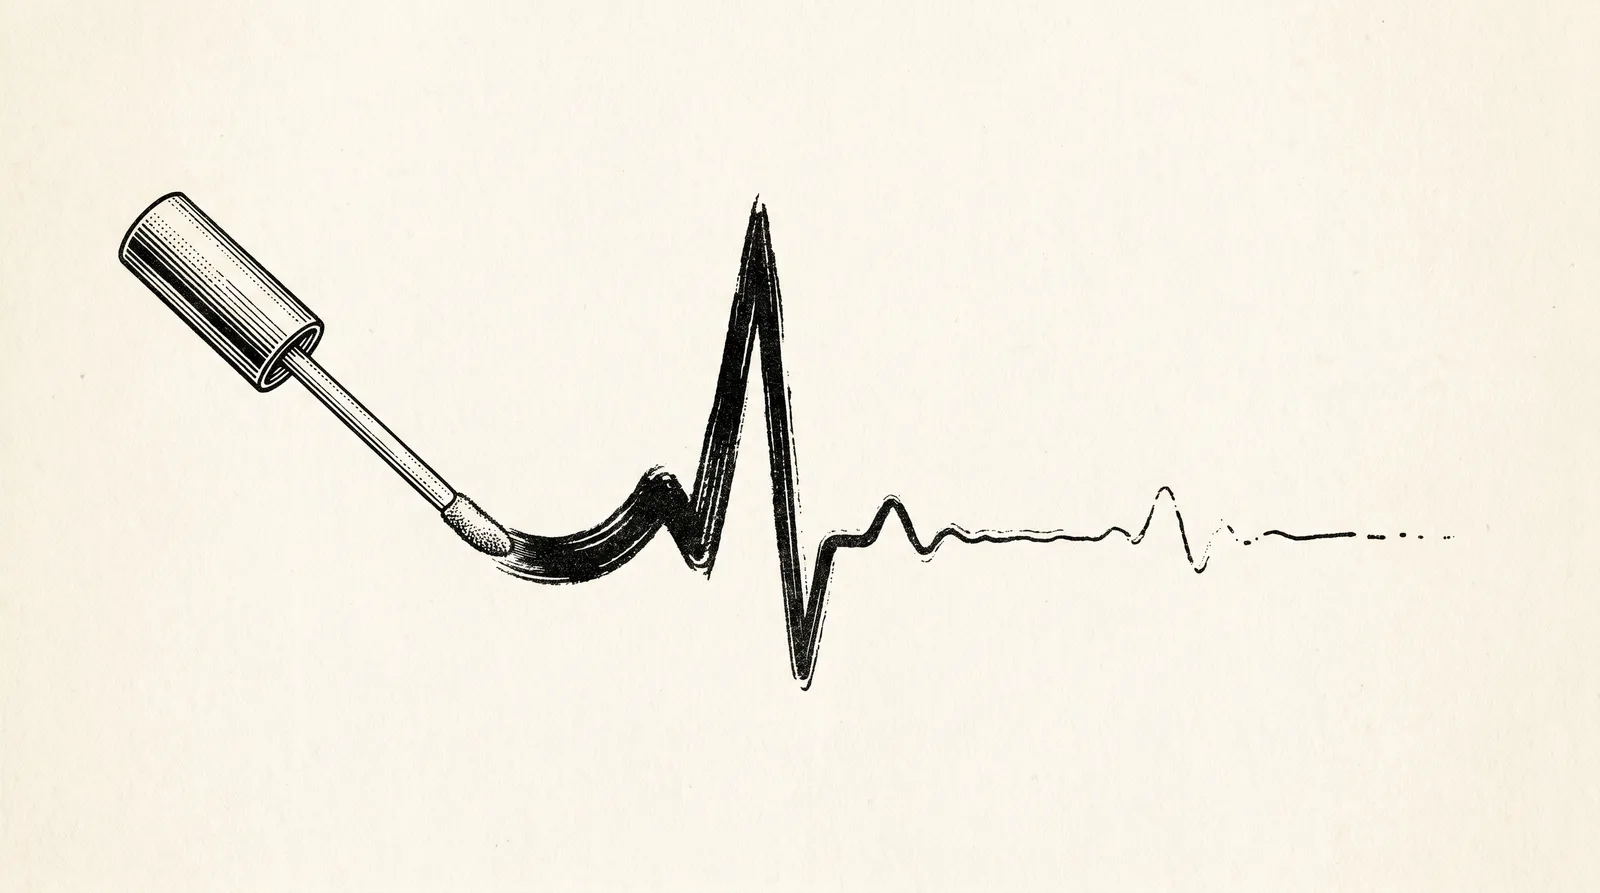
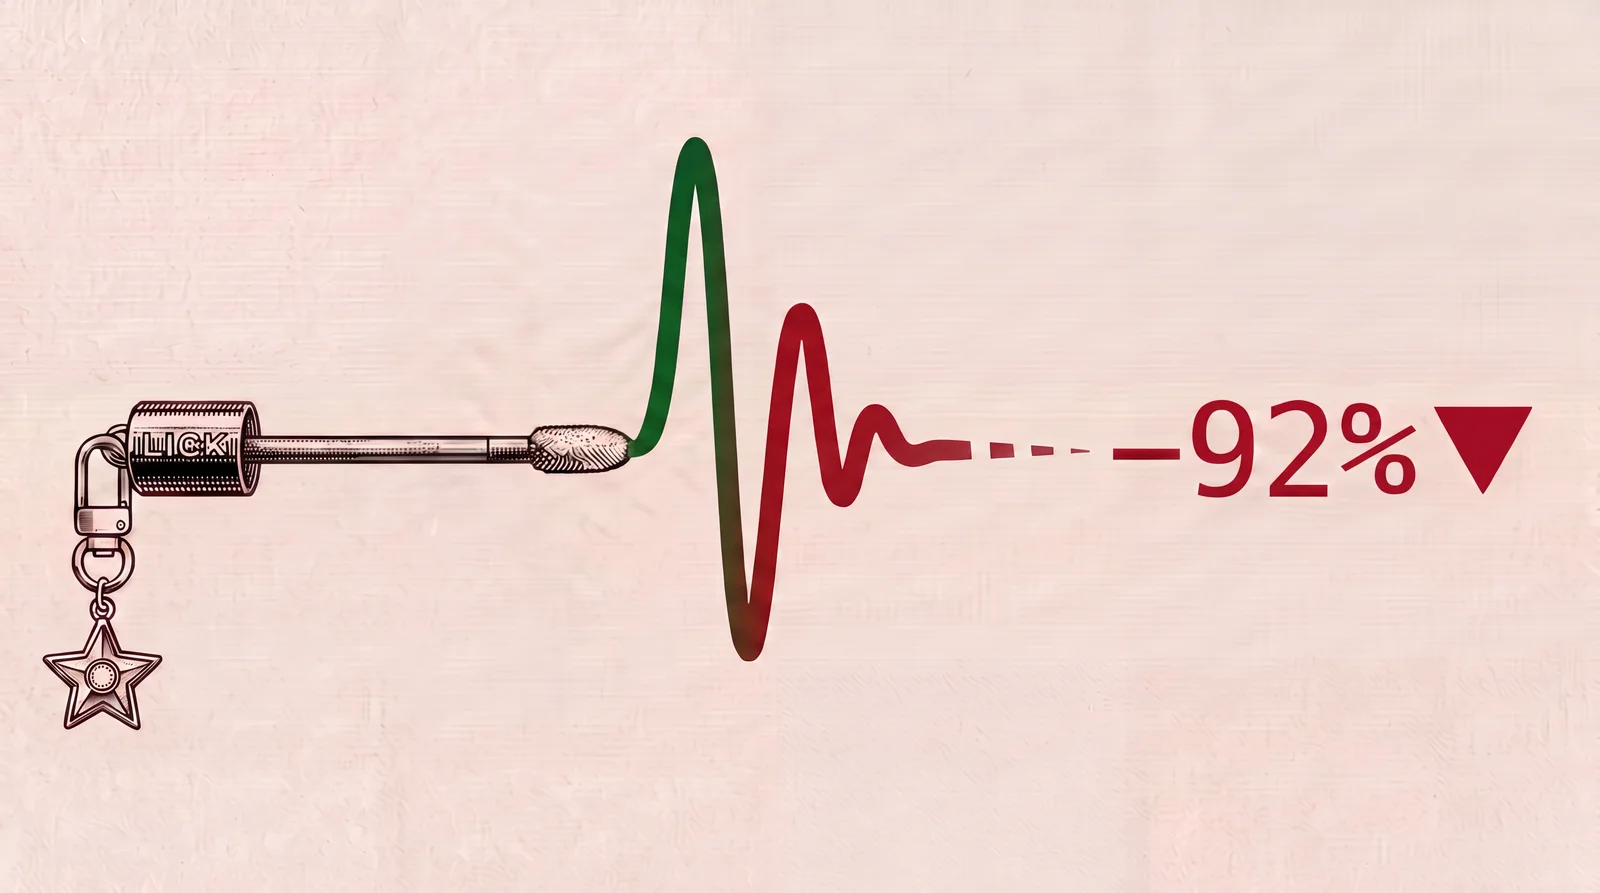
feat(home): Spade-style featured + new FT hero image
Restructure the featured block to match the reference: text on the left (date +
"Статьи" label, large title, larger subtitle, "Читать подробнее" with a play-
triangle that vertically rolls on hover, and an author byline in a bordered
rectangle), a larger image on the right. Widen the page container (max-w 1400 /
48px side padding). Swap in the new FT-pink engraving hero (green-up/red-down
cardiogram, −92%▼).

diff --git a/app/page.tsx b/app/page.tsx
@@ -8,7 +8,7 @@ import { Masthead } from "@/components/canon/masthead";
 import { HeroWordmark } from "@/components/canon/hero-wordmark";
 import { MetaLabel } from "@/components/canon/meta-label";
 import { AsciiRule } from "@/components/canon/ascii-rule";
-import { Sparkline } from "@/components/canon/sparkline";
+import { ReadMore } from "@/components/canon/read-more";
 
 export const metadata: Metadata = {
   title: "A. Kasymzhanov — дата-журнал о маркетплейсах",
@@ -51,7 +51,7 @@ const SOCIAL = [
 export default function Home() {
   return (
     <div className="font-mono text-[var(--color-text)]">
-      <div className="max-w-[1080px] mx-auto px-6">
+      <div className="max-w-[1400px] mx-auto px-6 md:px-12">
         {/* ── Header ── */}
         <header className="flex items-center justify-between gap-6 py-5 border-b border-[var(--color-border)]">
           <HeroWordmark size="header" />
@@ -72,37 +72,42 @@ export default function Home() {
         </header>
 
         {/* ── Featured: Бьюти ── */}
-        <section className="py-14">
-          <MetaLabel items={["Бьюти", "Свежий разбор"]} className="mb-7" />
+        <section className="py-12 md:py-16">
           <Link
             href="/blog/why-blogger-brands-fail"
-            className="group grid md:grid-cols-2 gap-8 md:gap-10 items-center no-underline"
+            className="group grid md:grid-cols-2 gap-10 md:gap-14 items-center no-underline"
           >
-            <div className="border border-[var(--color-border)] rounded-[3px] overflow-hidden bg-[var(--color-surface)]">
+            {/* text */}
+            <div className="order-2 md:order-1">
+              <div className="flex items-center gap-3 mb-5 text-[11px] uppercase tracking-[0.14em] text-[var(--color-dim)]">
+                <span>[ 25 Мар 2026 ]</span>
+                <span>Статьи</span>
+              </div>
+              <h2 className="text-[28px] md:text-[36px] font-bold leading-[1.12] tracking-tight text-[var(--color-text)] mb-5 group-hover:opacity-70 transition-opacity">
+                Блеск и тени Lick&nbsp;Beauty
+              </h2>
+              <p className="text-[15px] md:text-[17px] leading-[1.7] text-[var(--color-dim)] mb-7 max-w-md">
+                43&nbsp;млн в первый месяц. 3.3&nbsp;млн через полгода. Как бренд
+                с&nbsp;7&nbsp;миллионами подписчиков проиграл реплике за&nbsp;420&nbsp;тенге.
+              </p>
+              <div>
+                <ReadMore label="Читать подробнее" />
+              </div>
+              <div className="mt-8 inline-flex items-center border border-[var(--color-text)] px-3.5 py-2 text-[12px] text-[var(--color-text)]">
+                Автор: Алмас Касымжанов
+                <span className="text-[var(--color-dim)]">&nbsp;·&nbsp;дата-журналист</span>
+              </div>
+            </div>
+            {/* image */}
+            <div className="order-1 md:order-2 border border-[var(--color-border)] overflow-hidden">
               <Image
                 src="/blog/why-blogger-brands-fail/hero.webp"
-                alt="Блеск и тени Lick Beauty — выручка как затухающая кардиограмма"
+                alt="Блеск и тени Lick Beauty — выручка как кардиограмма, −92%"
                 width={1600}
                 height={893}
                 className="w-full h-auto"
                 priority
               />
-            </div>
-            <div>
-              <MetaLabel items={["25 Мар 2026", "Разбор", "7 мин"]} className="mb-4" />
-              <h2 className="text-[24px] md:text-[28px] font-bold leading-[1.2] tracking-tight text-[var(--color-text)] mb-4 group-hover:opacity-70 transition-opacity">
-                Блеск и тени Lick&nbsp;Beauty
-              </h2>
-              <p className="text-[14px] leading-[1.8] text-[var(--color-dim)] mb-5">
-                43&nbsp;млн в первый месяц. 3.3&nbsp;млн через полгода. Как бренд
-                с&nbsp;7&nbsp;миллионами подписчиков проиграл реплике за&nbsp;420&nbsp;тенге.
-              </p>
-              <div className="flex items-center gap-4">
-                <Sparkline data={[43.6, 16, 6.3, 3.3]} delta="↓ −92%" />
-              </div>
-              <span className="inline-block mt-6 text-[13px] font-bold text-[var(--color-text)] group-hover:opacity-70 transition-opacity">
-                Читать&nbsp;→
-              </span>
             </div>
           </Link>
         </section>

diff --git a/components/canon/read-more.tsx b/components/canon/read-more.tsx
@@ -1,0 +1,27 @@
+// "Читать подробнее" with a play-triangle that vertically rolls on hover.
+// Reproduces the Spade "Read more" interaction. Put a `group` on the parent (e.g. the card link).
+const TRI = "M2.0326 15.6442L0 13.5799L0 2.0643L2.0326 0L21.48 7.27606L21.48 8.36816L2.0326 15.6442Z";
+
+function Tri() {
+  return (
+    <svg viewBox="0 0 22 16" className="h-full w-full fill-[var(--color-text)]" aria-hidden>
+      <path d={TRI} />
+    </svg>
+  );
+}
+
+export function ReadMore({ label = "Читать подробнее" }: { label?: string }) {
+  return (
+    <span className="inline-flex items-center gap-2 font-mono text-[14px] font-bold text-[var(--color-text)]">
+      <span className="relative inline-block h-[11px] w-[15px] overflow-hidden shrink-0">
+        <span className="absolute inset-0 grid place-items-center transition-all duration-300 ease-out group-hover:-translate-y-full group-hover:opacity-0">
+          <Tri />
+        </span>
+        <span className="absolute inset-0 grid place-items-center translate-y-full opacity-0 transition-all duration-300 ease-out group-hover:translate-y-0 group-hover:opacity-100">
+          <Tri />
+        </span>
+      </span>
+      {label}
+    </span>
+  );
+}